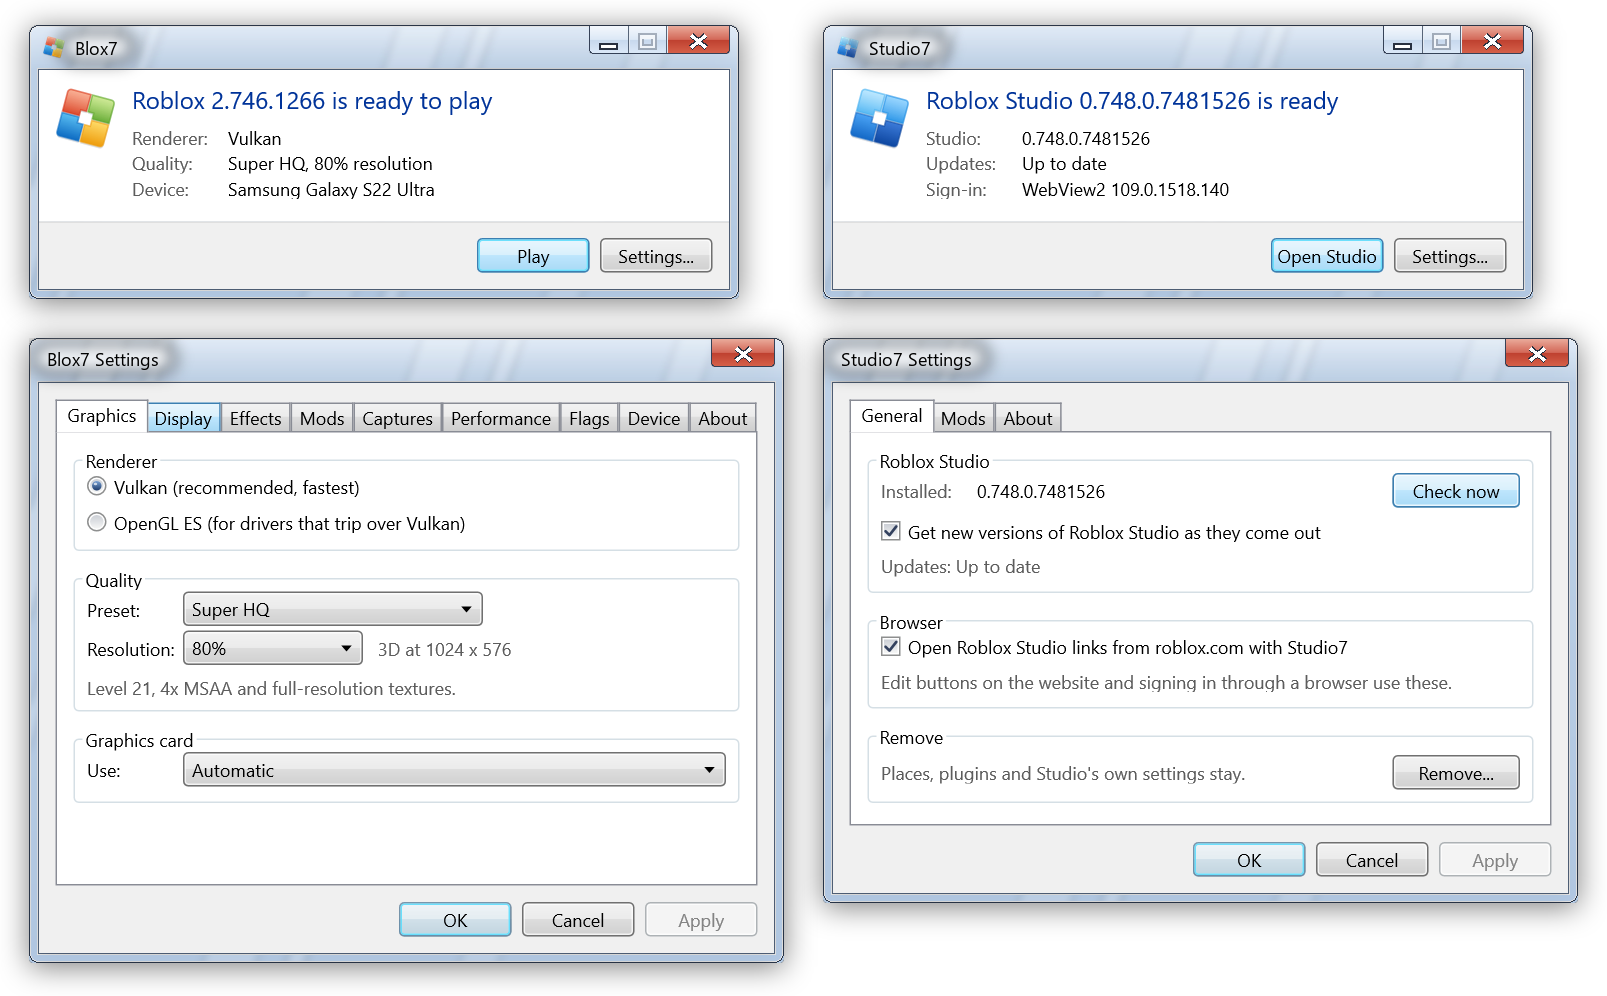
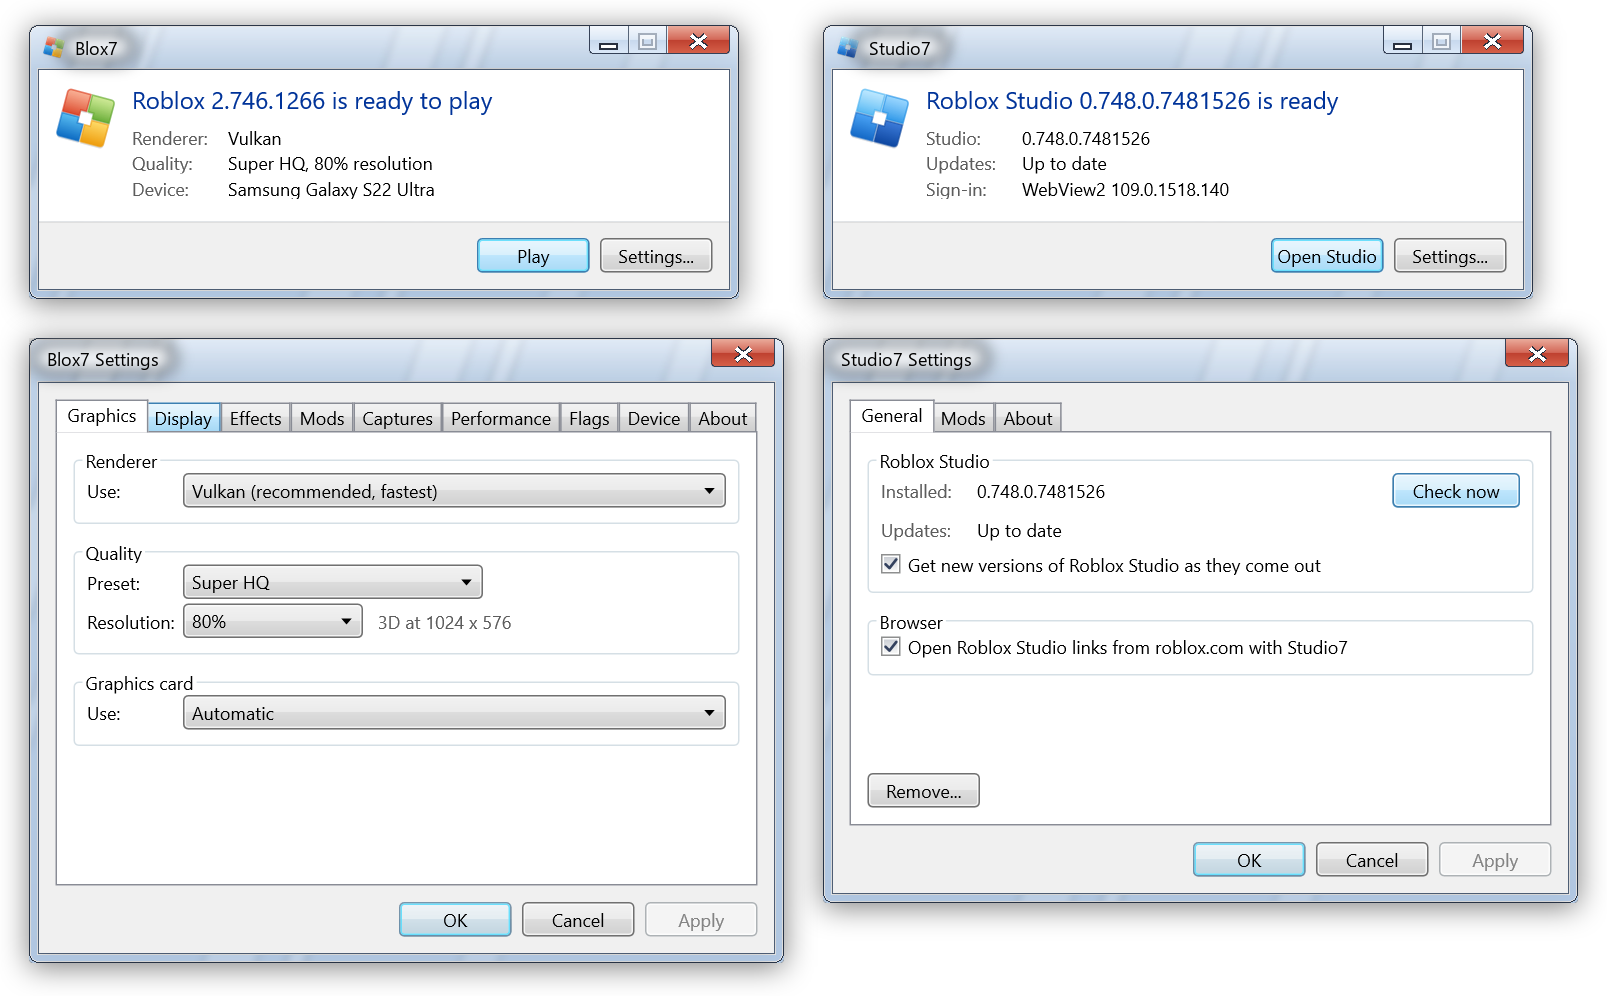
readme trimmed down, launcher pics redone

diff --git a/README.md b/README.md
@@ -7,7 +7,7 @@
 
 Roblox ended support for Windows 7 and 8.1 in January 2025. Blox7 gets them playing again by running the Android
 version of Roblox as an ordinary Windows process. There is no emulator or virtual machine involved, and it works on
-Windows 10 and 11 too. Studio7 is the second program here, and it runs Roblox Studio on Windows 7.
+Windows 10 and 11 too.
 
 <p align="center">
   <img src="docs/windows7.jpg" alt="Roblox running on Windows 7 Ultimate">
@@ -19,8 +19,7 @@ Windows 10 and 11 too. Studio7 is the second program here, and it runs Roblox St
   <img src="docs/lobby.jpg" width="32%" alt="A murder mystery lobby">
 </p>
 
-Roblox Studio wants Windows 10 as well, and on Windows 7 it doesn't start on its own. Studio7 downloads the same
-Studio that Windows 10 and 11 get and fills in the functions Windows 7 is missing.
+Studio7 is the second program here, and it runs Roblox Studio on Windows 7.
 
 <p align="center">
   <img src="docs/studio7fanart.jpg" alt="Roblox Studio running on Windows 7">
@@ -28,22 +27,16 @@ Studio that Windows 10 and 11 get and fills in the functions Windows 7 is missin
 
 ## Download
 
-Both are on the [latest release](https://github.com/Zephkek/Blox7/releases/latest) page, one exe each.
+Both are on the [latest release](https://github.com/Zephkek/Blox7/releases/latest) page, one exe each. You only need
+to download them once, they update themselves.
 
 Run `Blox7.exe` and press Play. The first start downloads Roblox (about 150 MB), then you sign in inside the Roblox
 window. It needs 64-bit Windows 7 SP1 or newer and a Vulkan or OpenGL driver.
 
-Run `Studio7.exe` and press Install. It downloads Roblox Studio from Roblox (about 570 MB), and from then on Open
-Studio starts it. It needs 64-bit Windows 7 SP1. Windows 8 and 8.1 aren't supported yet, and Windows 10 and 11
-don't need it.
+Run `Studio7.exe` and press Install. It downloads Roblox Studio (about 570 MB). It needs 64-bit Windows 7 SP1.
+Windows 8 and 8.1 aren't supported yet, and Windows 10 and 11 don't need it.
 
-Both need the WebView2 Runtime for the sign-in page. Windows 7, 8 and 8.1 stop at WebView2 109. If it isn't
-installed, Blox7 offers to open the download page for it and Studio7 shows a link.
-
-You only need to download each exe once. When a launcher opens it asks GitHub whether a newer one has been published
-here. If so it downloads it, checks it against the SHA-256 that GitHub lists for the file, puts it in its own place
-and starts it. If the settings are open or Roblox is running it doesn't restart, and the new exe is used from the
-next start. Each About page has a box that turns this off.
+Both need the WebView2 Runtime for the sign-in page. Windows 7, 8 and 8.1 stop at WebView2 109.
 
 ## The launchers
 
@@ -56,70 +49,6 @@ next start. Each About page has a box that turns this off.
   <img src="docs/ui-mods.png" width="32%" alt="Blox7's Mods settings">
   <img src="docs/ui-device.png" width="32%" alt="Blox7's Device settings">
 </p>
-
-Both launchers look like they shipped with Windows 7. In Blox7's settings you choose Vulkan or OpenGL ES, a quality
-preset up to Super HQ, and a render resolution, which is worth lowering on a weak GPU. The Effects tab has
-sharpening, vibrance, contrast and brightness, or takes a `.frag` shader of your own. The Mods tab takes your own
-cursors, font, window title and icon. Captures sets how videos are recorded and where they and screenshots are
-saved. There are also tabs for fast flags and for the device Roblox is told it's running on, which can be one of a
-list of phones or a Windows 11 PC with mouse and keyboard.
-
-Studio7 has less to set. Each time you open it, it looks for a newer Studio and downloads it, unless you turn that
-off. The new version goes next to the one you have and is used from the next start, so an open Studio is never
-replaced. If the new one closes right after starting, Studio7 goes back to the one that worked. Its files are all
-in `%LOCALAPPDATA%\Studio7`, and the Remove button takes them away again.
-
-It has a Mods tab as well, for your own arrow and hand cursors, a font for Studio's toolbar and a window icon. There
-is also a mods folder, laid out like Studio's own folder, and a picture, font or sound in it replaces the file
-Studio has in the same place. Studio's own files are kept, and they come back when you take a mod out. Remove
-leaves the mods folder alone if there is anything in it.
-
-## How it works
-
-### Blox7
-
-Roblox builds its Android app for x86-64 as well as ARM, so `libroblox.so` already runs on a PC's processor. What it
-needs is the rest of Android around it, and Blox7 provides that inside a normal Windows process.
-
-<p align="center">
-  <picture>
-    <source media="(prefers-color-scheme: dark)" srcset="docs/how-it-works-dark.png">
-    <img src="docs/how-it-works-light.png" width="692" alt="The paths a call takes out of libroblox.so. libc calls go through Bionic into Blox7's syscall layer and on to kernel32, ntdll and ws2_32. Raw syscall instructions are trapped by a debug register and land in the same layer. JNI calls are answered by Blox7's JNI VM. Calls into the Android libraries cross bridges to SDL3, opengl32 and vulkan-1.">
-  </picture>
-</p>
-
-The C library is Bionic, the same one a phone uses, built from the AOSP sources. Its syscall stubs don't enter a
-kernel. They call functions like `sys_openat` and `sys_futex` in Blox7's syscall layer, which do the work with Win32
-and answer the way Linux would.
-
-Roblox also contains a few raw `syscall` instructions that don't go through libc. Each of those gets a debug register
-parked on it, and the exception handler runs the call through the same table.
-
-Roblox's Java code never runs. Its native code still calls into Java through JNI, and Blox7's JNI VM answers those
-calls in C++.
-
-Graphics, input and audio skip the syscall layer. The Android libraries Roblox links against, like `libEGL.so` and
-`libvulkan.so`, are Blox7's own, and bridges pass their calls to SDL3 and the Windows GPU driver.
-
-### Studio7
-
-Studio is an ordinary Windows program, so none of the Android machinery is involved. What stops it on Windows 7 is
-about forty functions it imports that only came with Windows 8 and 10, like `WaitOnAddress` and
-`GetSystemTimePreciseAsFileTime`.
-
-Studio7 carries six small DLLs that stand in for `kernel32.dll`, `user32.dll`, `ws2_32.dll` and a few others. They
-pass the functions Windows 7 already has on to the real DLLs and implement the missing ones themselves. After the
-download Studio7 writes their names into the import tables of the files that need them. In the current version that
-is eleven names in six files, and each one is noted so it can be put back byte for byte.
-
-Studio also asks for some functions under API-set DLL names that Windows 7 doesn't know, and for those Studio7
-writes small DLLs that only forward.
-
-A few functions that Windows 7 does have are answered by these DLLs too. Studio's video recorder asks the H.264
-encoder for its attribute store, the Windows 7 encoder says it has none, and Studio stops there. Studio7 wraps the
-encoder and hands it one, and recording works. That encoder doesn't take frames larger than 1920x1088. The window
-icon from the Mods tab goes the same way: Qt gives its windows the icon from Studio's exe, and the `user32.dll`
-stand-in puts yours there instead.
 
 ## Building
 
@@ -138,8 +67,8 @@ python win/tools/runtime-build.py
 python win/tools/build.py blox7
 ```
 
-Run them in that order. The last one writes `win/out/release/Blox7.exe`. It also compiles BearSSL 0.6 into the
-launcher for the update check, and looks for its sources in `bearssl` under `BLOX7_DEPS_SRC`.
+Run them in that order. The last one writes `win/out/release/Blox7.exe` and needs the BearSSL 0.6 sources in
+`bearssl` under `BLOX7_DEPS_SRC`.
 
 Studio7 is one step and doesn't need any of the steps above. It only needs llvm-mingw and, under `BLOX7_DEPS_SRC`,
 the zlib sources in `zlib` and BearSSL 0.6 in `bearssl`.
